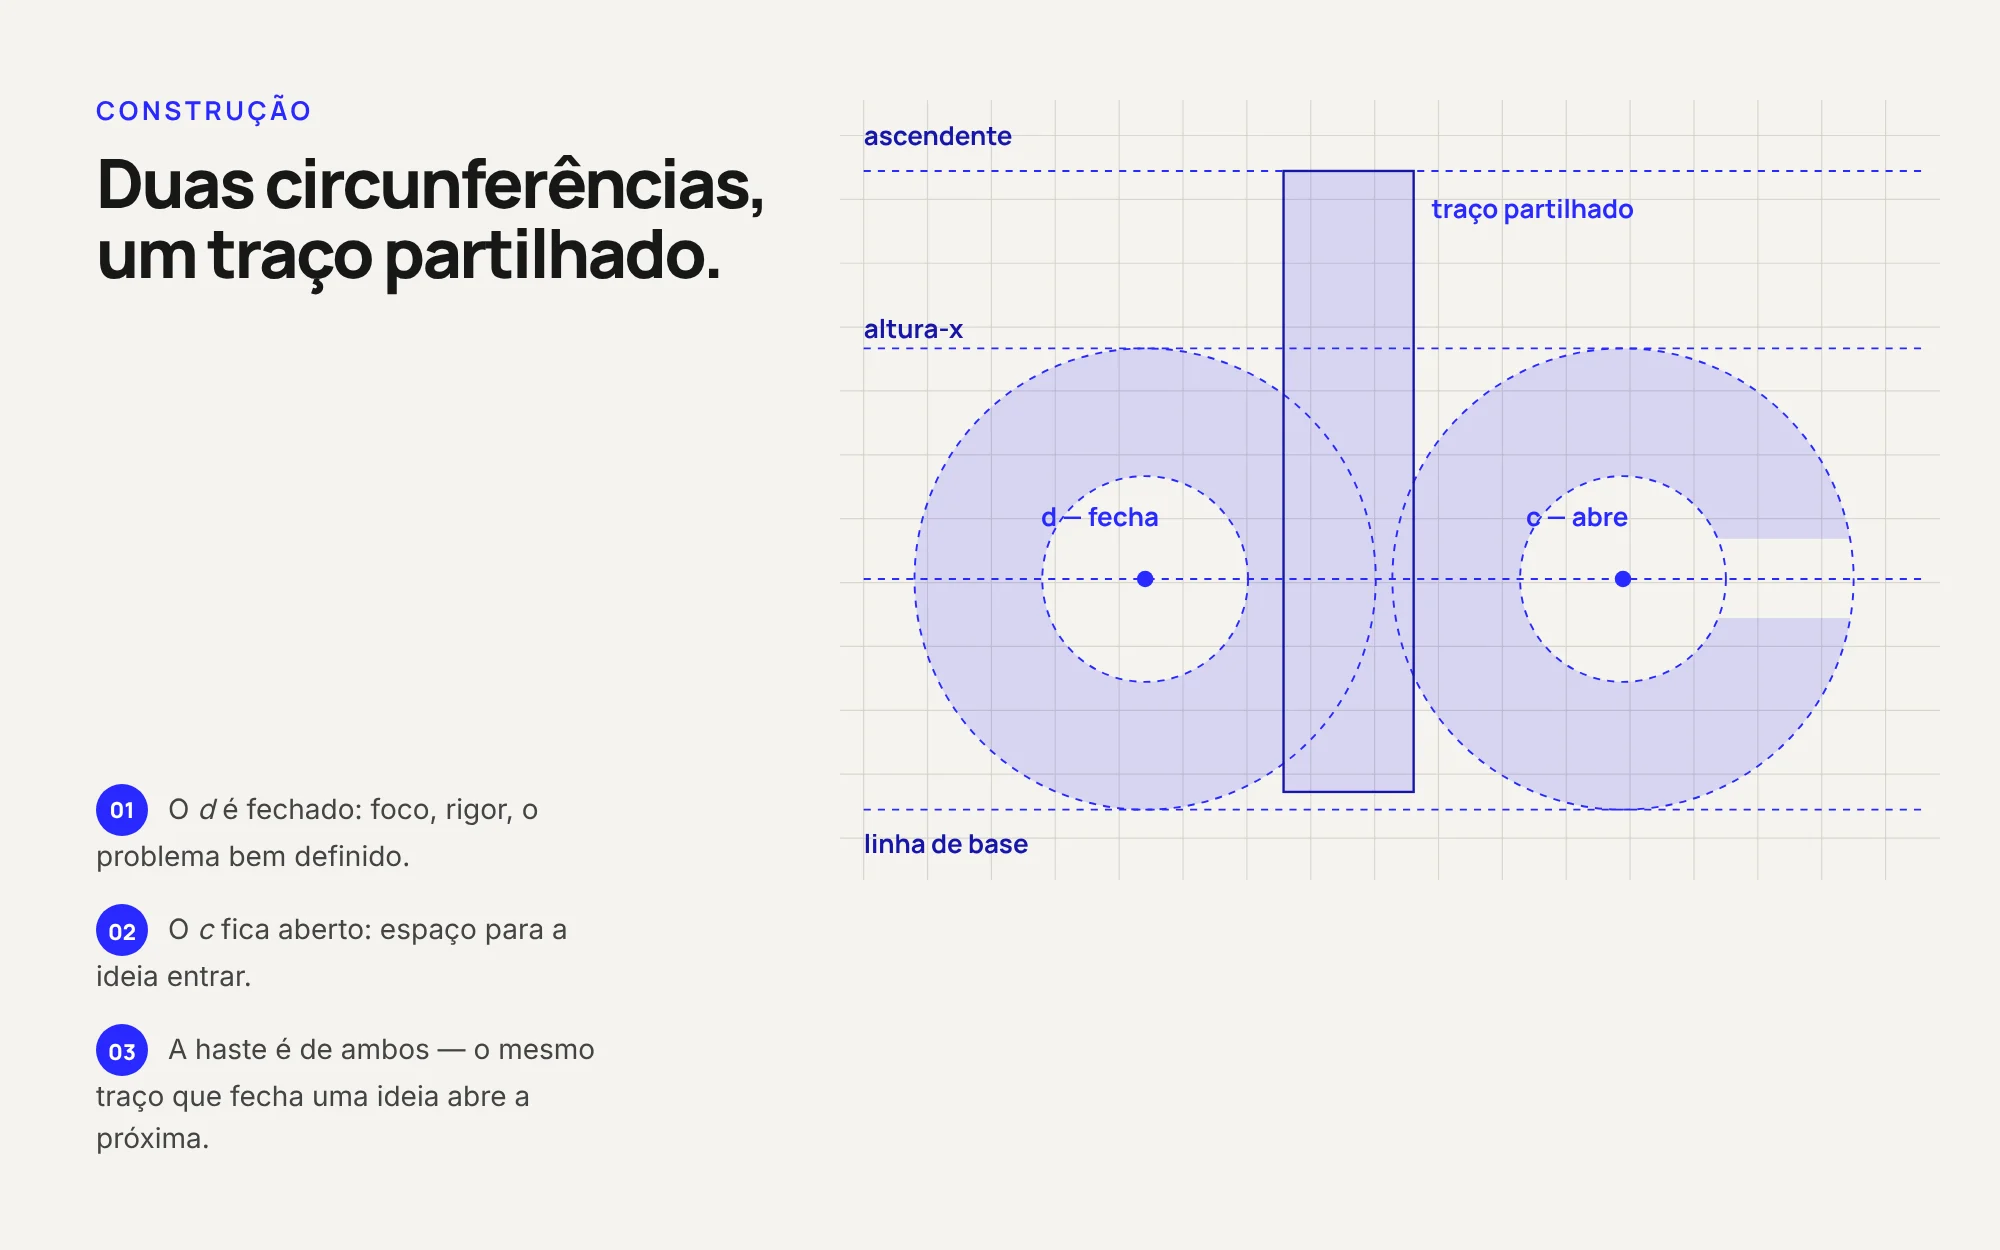
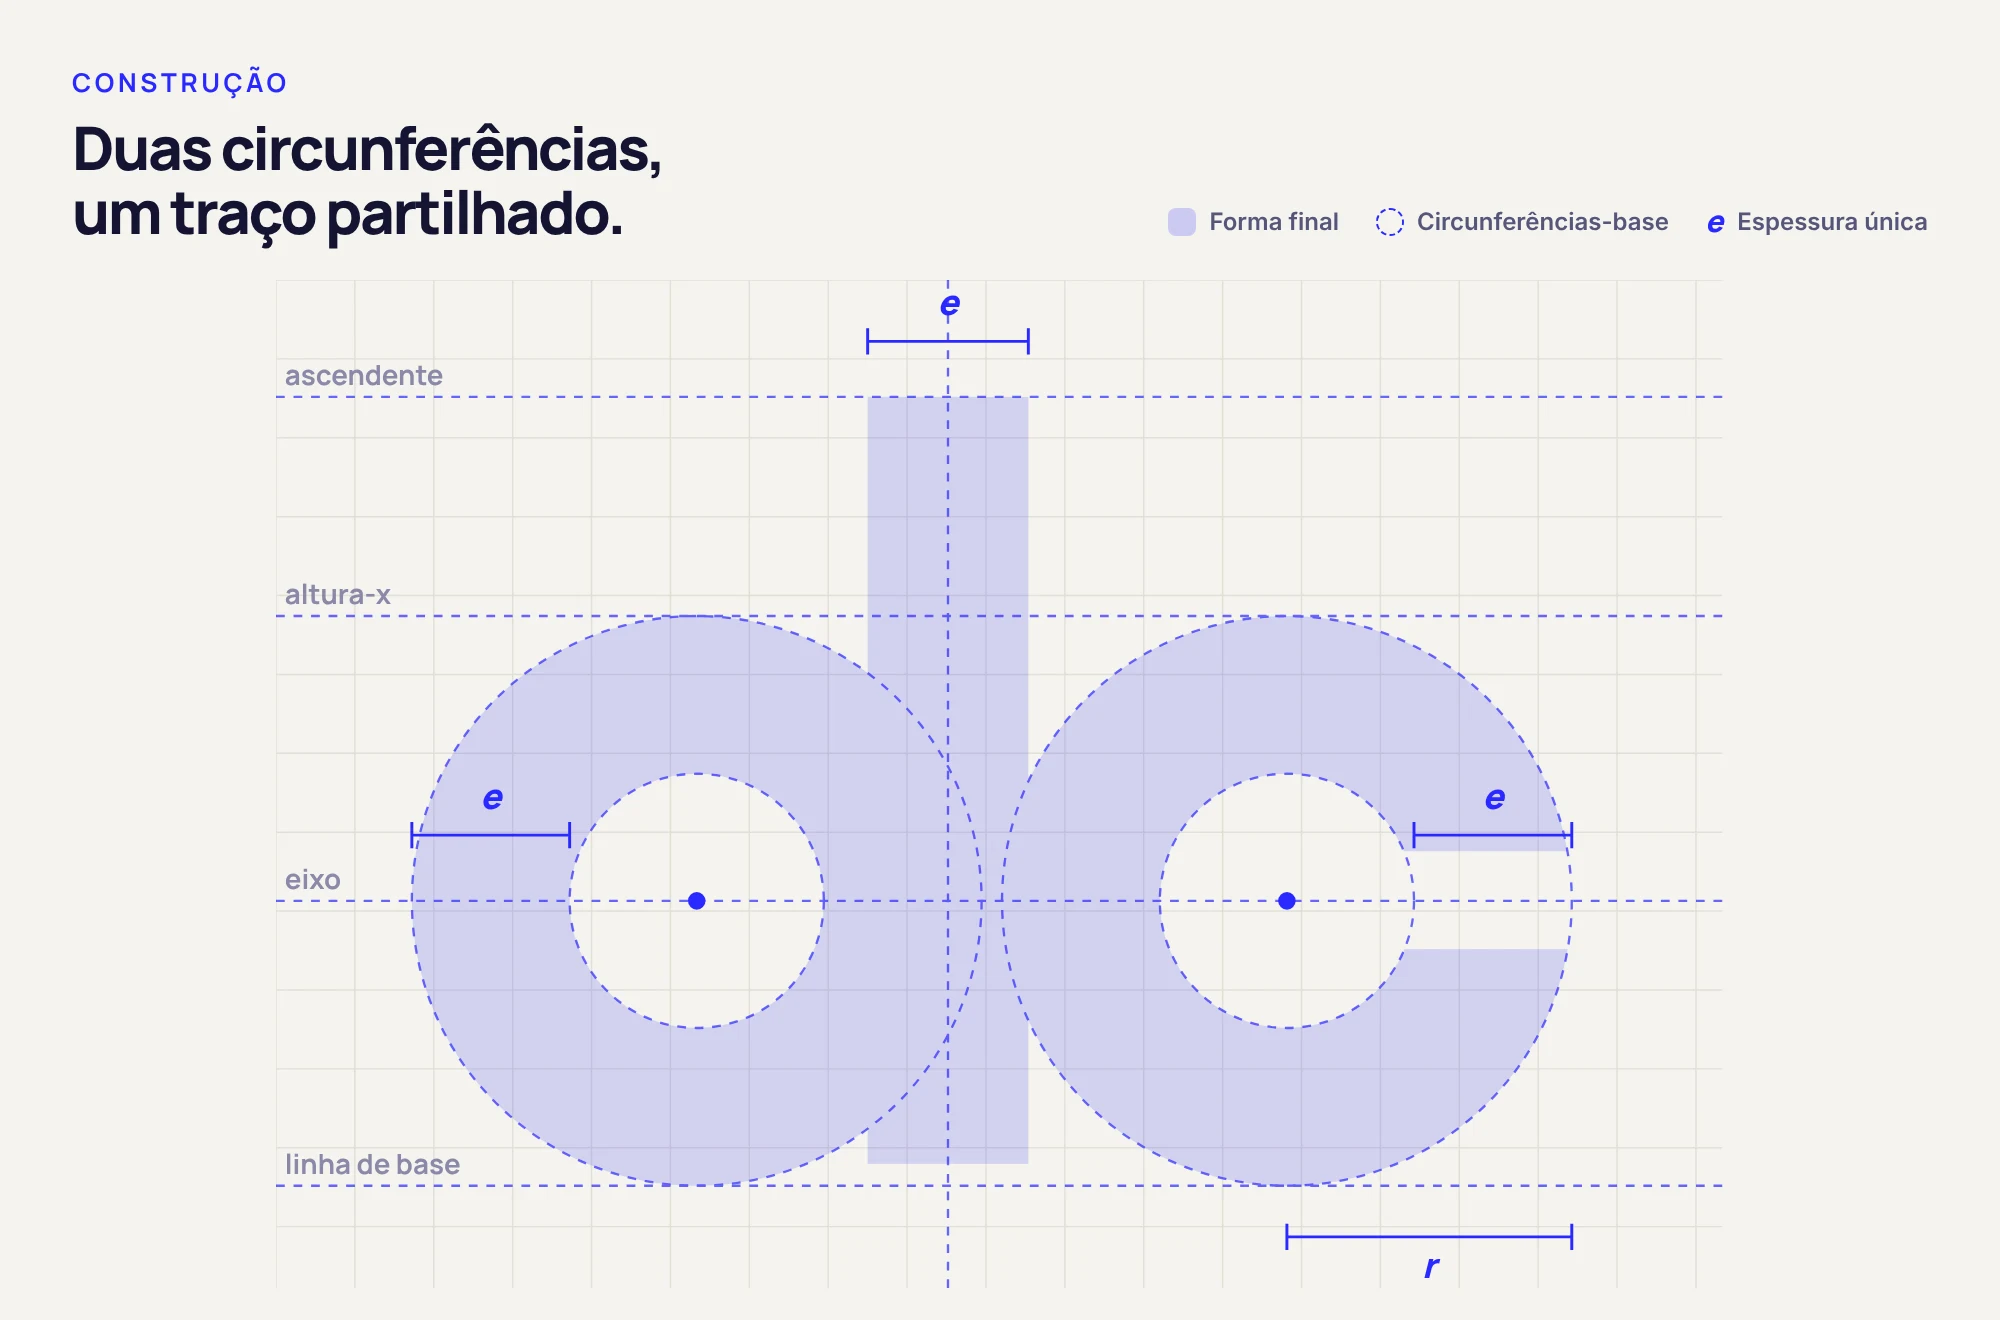
Marca pessoal: construção redesenhada
Claude-Session: https://claude.ai/code/session_017ewHNcAXVDPRRYUgJkUYqb

diff --git a/projects/dinis-cardoso-brand/index.html b/projects/dinis-cardoso-brand/index.html
@@ -65,7 +65,7 @@
     <div class="side rv"><span class="no"><b>01</b>Visão geral</span></div>
     <div class="body rv"><p class="big">Como designer, precisava de uma assinatura que me identificasse em tudo o que faço — do portfólio ao CV, das redes sociais a um simples cartão de visita. O desafio era resumir num único símbolo quem sou e como trabalho: alguém que encara cada problema como o ponto de partida para uma solução. O resultado é o monograma dc, construído com apenas duas formas geométricas e uma cor — fácil de reconhecer e simples de aplicar em qualquer suporte.</p></div>
   </section>
-  <div class="gallery"><figure class="full anim rv" style="aspect-ratio:1206/760"><img src="../../assets/img/dc-logo-anim.svg" alt="Dinis Cardoso® — logótipo animado" loading="lazy"></figure><figure class="full rv" style="aspect-ratio:1000/625" data-full="../../assets/img/dc-construct.webp"><img src="../../assets/img/dc-construct.webp" alt="Dinis Cardoso® — imagem do projeto" loading="lazy"></figure></div>
+  <div class="gallery"><figure class="full anim rv" style="aspect-ratio:1206/760"><img src="../../assets/img/dc-logo-anim.svg" alt="Dinis Cardoso® — logótipo animado" loading="lazy"></figure><figure class="full rv" style="aspect-ratio:1000/660" data-full="../../assets/img/dc-construct.webp"><img src="../../assets/img/dc-construct.webp" alt="Dinis Cardoso® — imagem do projeto" loading="lazy"></figure></div>
   
   <section class="ws dc-story" aria-labelledby="dcs-title">
     <div class="ws-head rv"><div><h2 id="dcs-title">Um traço que liga<br>o problema à solução</h2></div><p class="hand-lead">“não existem problemas, existem soluções.”</p></div>

diff --git a/en/projects/dinis-cardoso-brand/index.html b/en/projects/dinis-cardoso-brand/index.html
@@ -65,7 +65,7 @@
     <div class="side rv"><span class="no"><b>01</b>Overview</span></div>
     <div class="body rv"><p class="big">As a designer, I needed a signature that would identify me in everything I do — from my portfolio and CV to social media and a simple business card. The challenge was to sum up in a single symbol who I am and how I work: someone who sees every problem as the starting point of a solution. The result is the dc monogram, built from just two geometric shapes and one colour — easy to recognise and simple to apply on any medium.</p></div>
   </section>
-  <div class="gallery"><figure class="full anim rv" style="aspect-ratio:1206/760"><img src="../../../assets/img/dc-logo-anim.svg" alt="Dinis Cardoso® — animated logo" loading="lazy"></figure><figure class="full rv" style="aspect-ratio:1000/625" data-full="../../../assets/img/dc-construct.webp"><img src="../../../assets/img/dc-construct.webp" alt="Dinis Cardoso® — project image" loading="lazy"></figure></div>
+  <div class="gallery"><figure class="full anim rv" style="aspect-ratio:1206/760"><img src="../../../assets/img/dc-logo-anim.svg" alt="Dinis Cardoso® — animated logo" loading="lazy"></figure><figure class="full rv" style="aspect-ratio:1000/660" data-full="../../../assets/img/dc-construct.webp"><img src="../../../assets/img/dc-construct.webp" alt="Dinis Cardoso® — project image" loading="lazy"></figure></div>
   
   <section class="ws dc-story" aria-labelledby="dcs-title">
     <div class="ws-head rv"><div><h2 id="dcs-title">One stroke that links<br>problem and solution</h2></div><p class="hand-lead">“there are no problems, only solutions.”</p></div>
